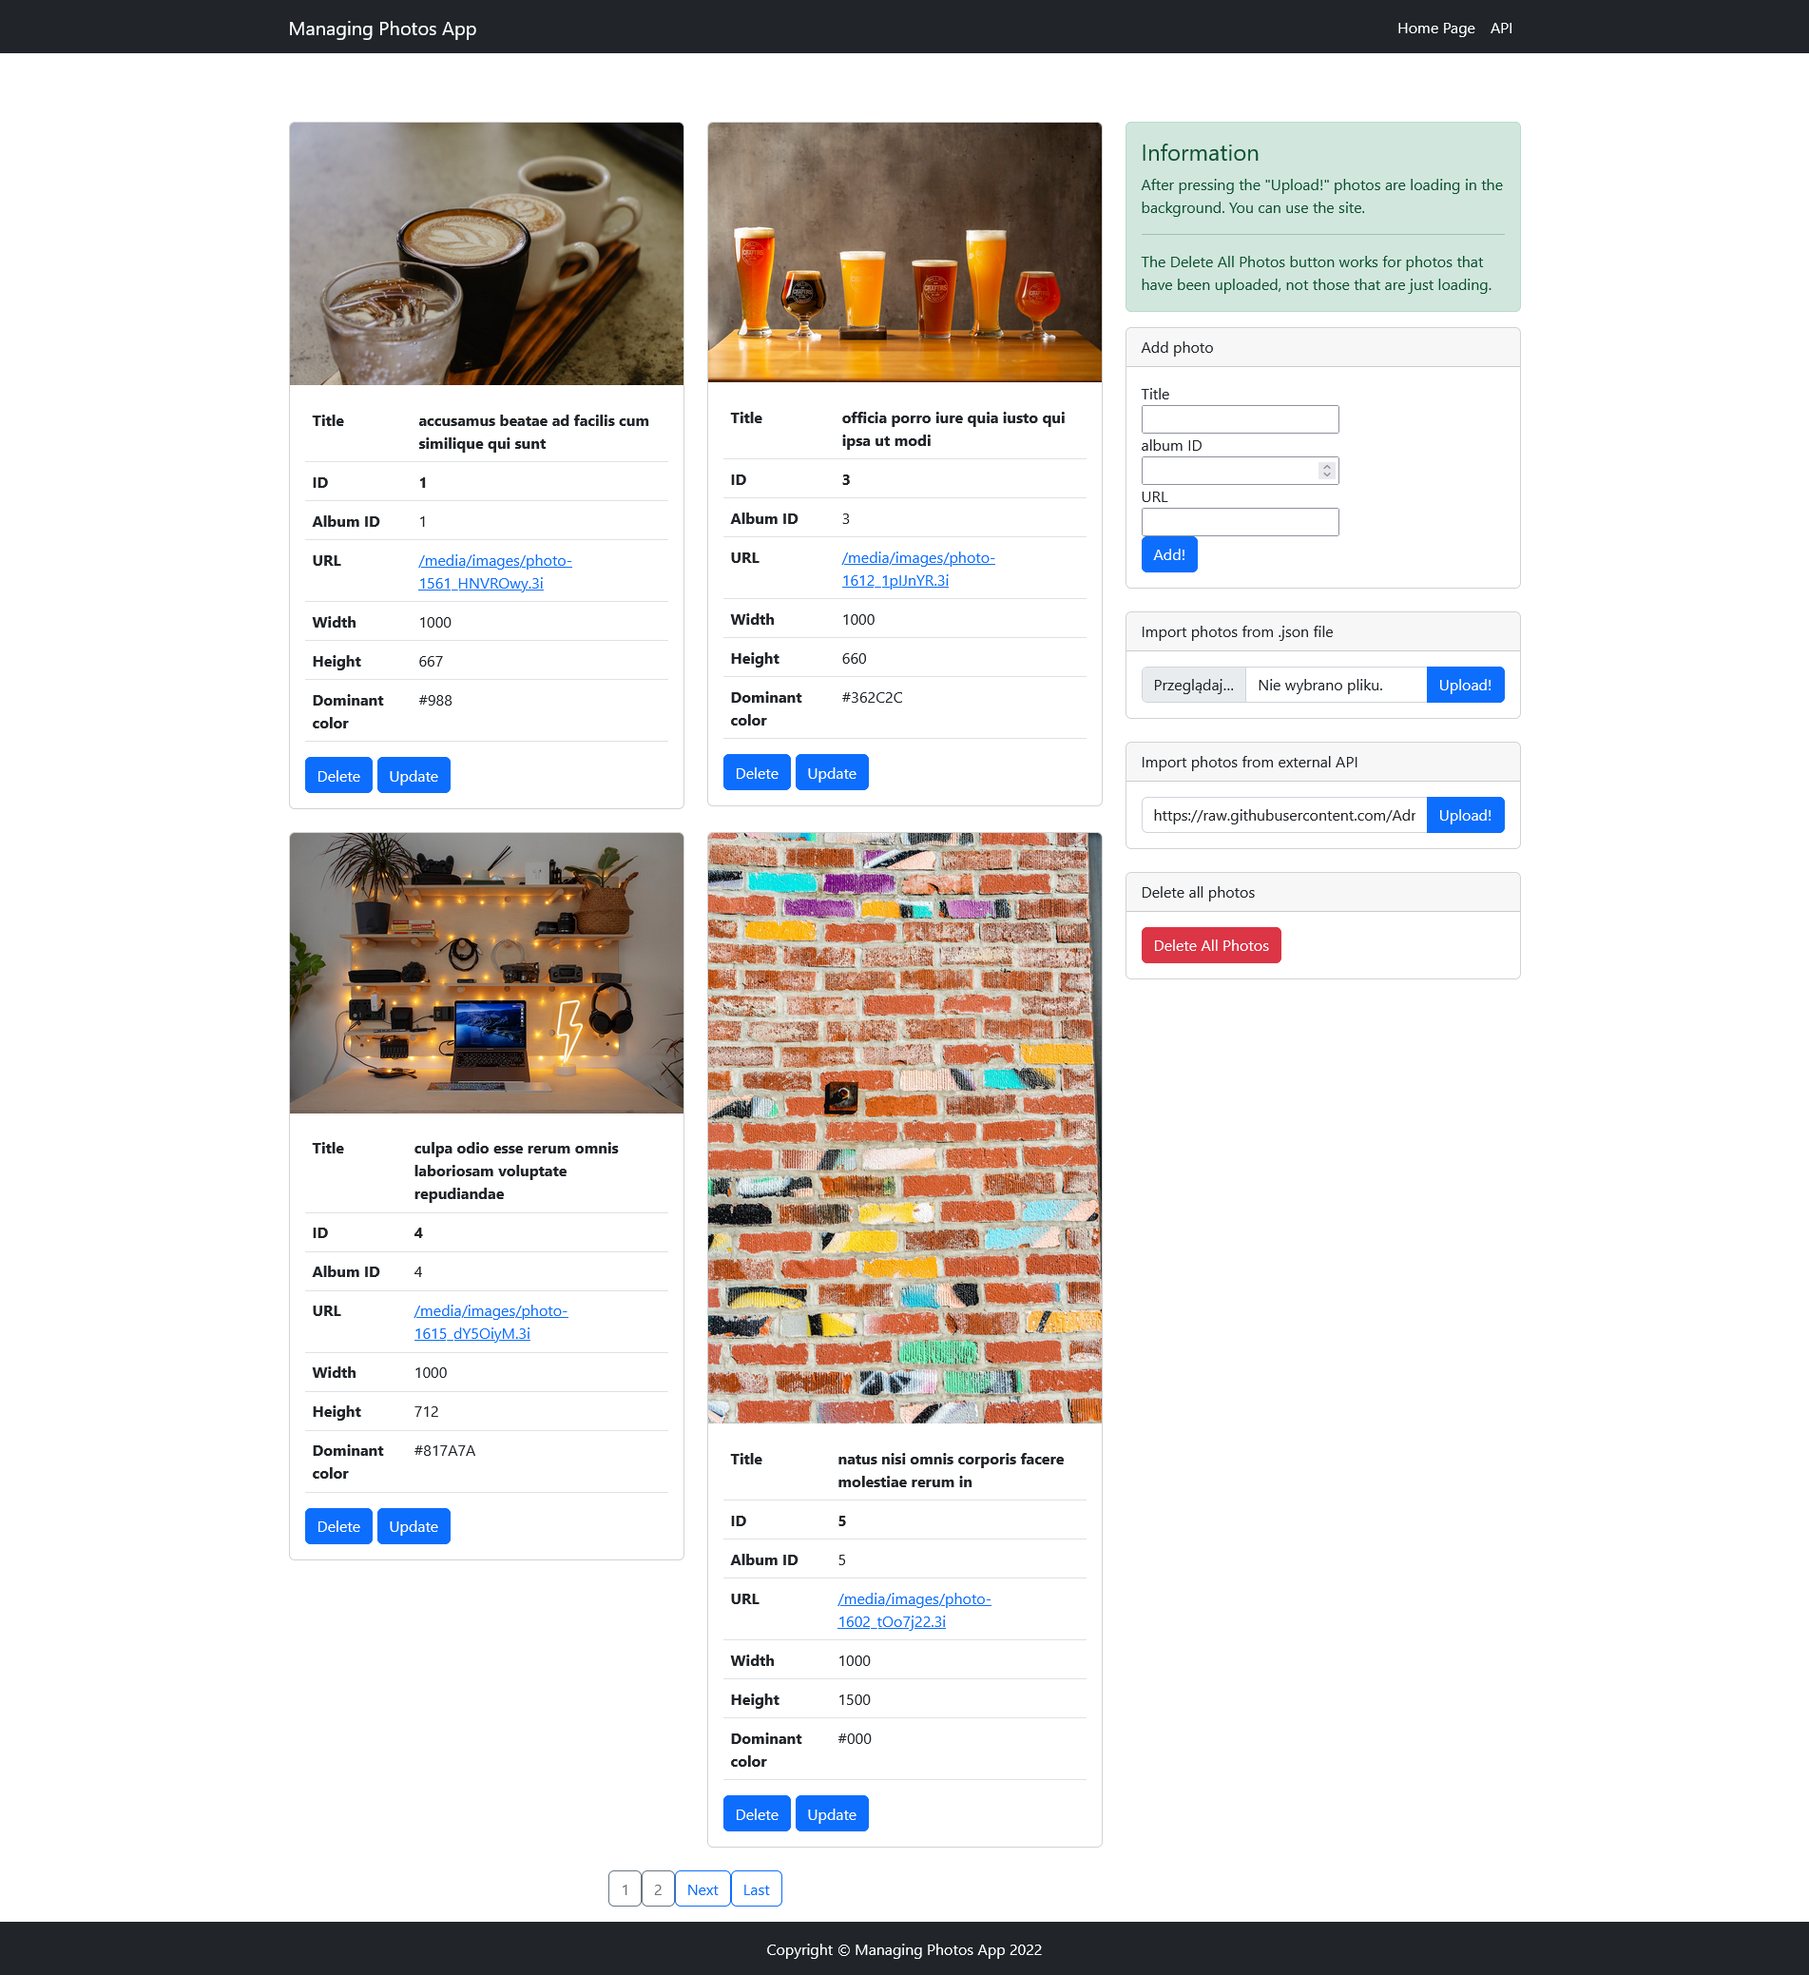
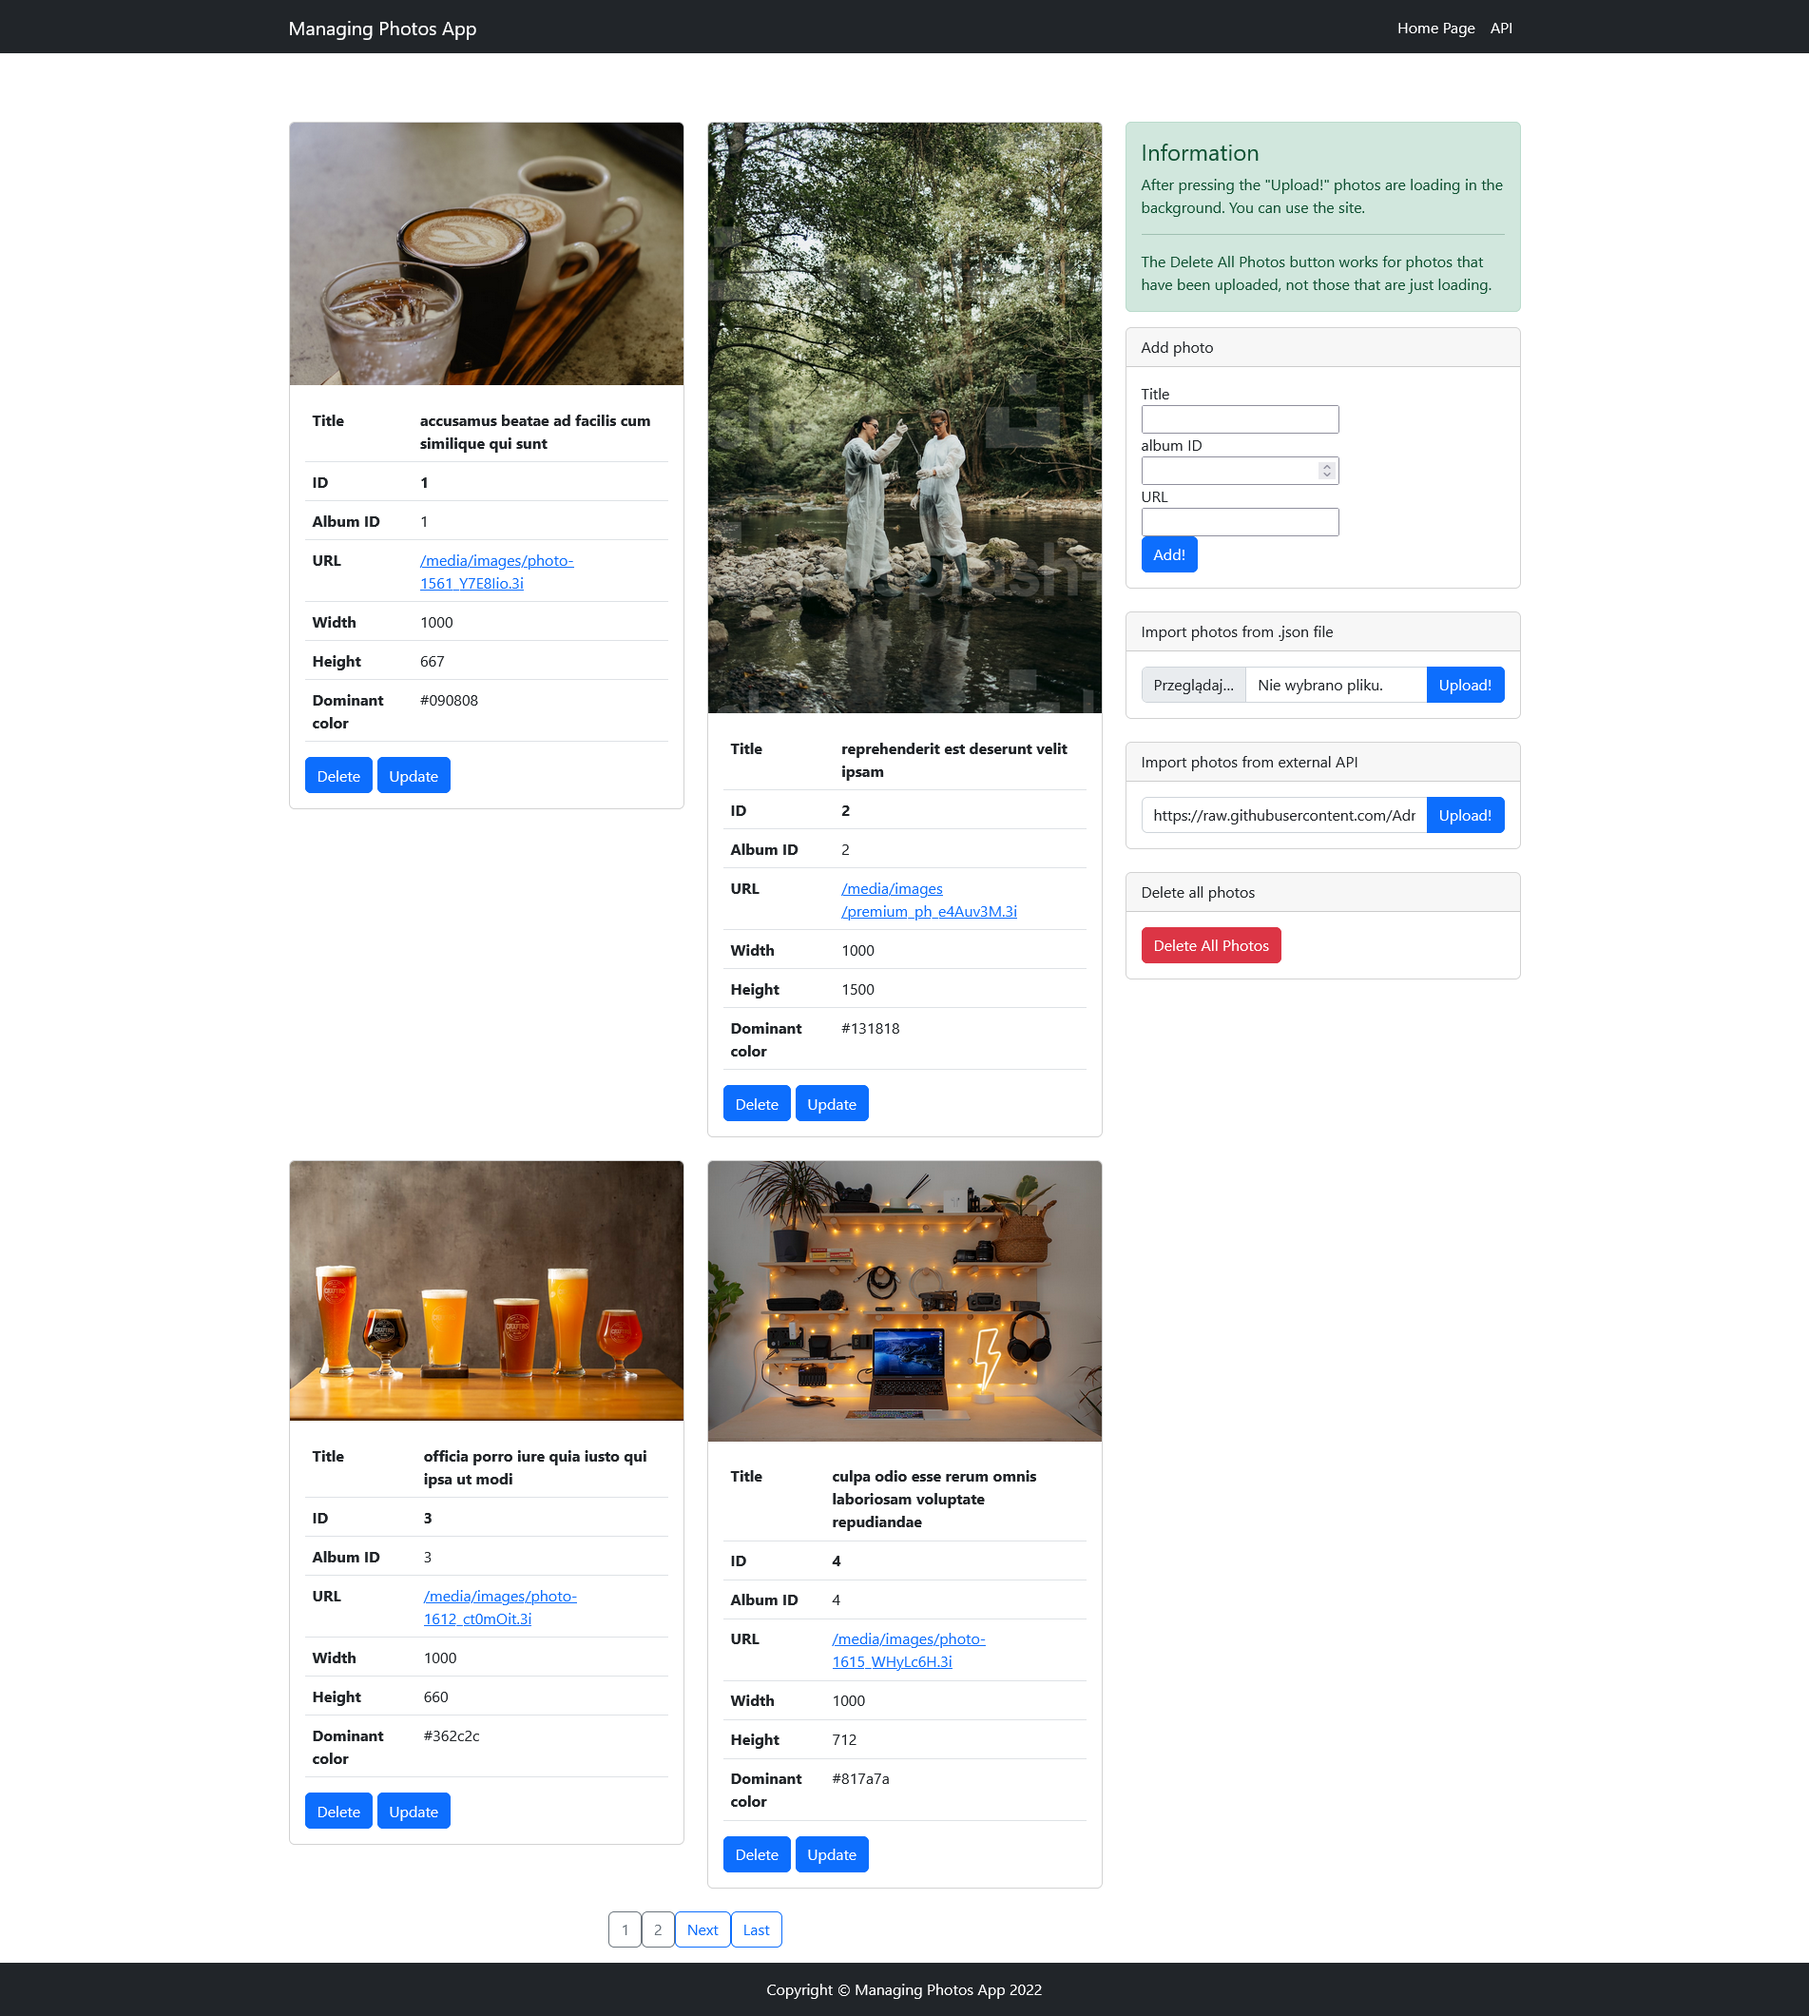
Hexadecimal color fix

diff --git a/managing_photos/views.py b/managing_photos/views.py
@@ -87,8 +87,7 @@ def create_object_from_json(json_data):
             img_temp = img.copy()
             unique, counts = np.unique(img_temp.reshape(-1, 3), axis=0, return_counts=True)
             img_temp[:,:,0], img_temp[:,:,1], img_temp[:,:,2] = unique[np.argmax(counts)]
-            hex_dominat = ('#{:X}{:X}{:X}').format(
-                img_temp[0][0][0], img_temp[0][0][1], img_temp[0][0][1])
+            hex_dominat = '#' + f'{img_temp[0][0][0]:02x}{img_temp[0][0][1]:02x}{img_temp[0][0][1]:02x}'
         except:
             traceback.print_exc()
             hex_dominat = '-------'
